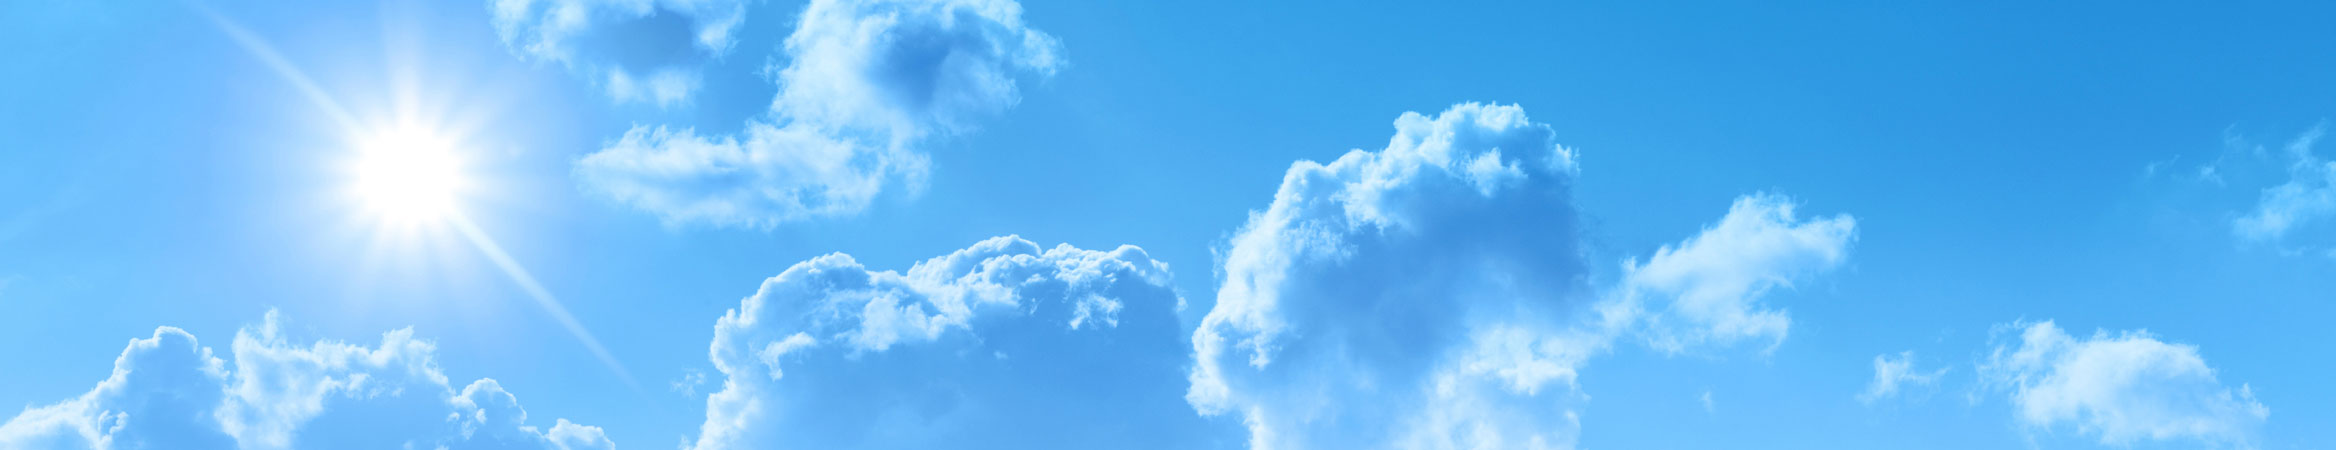
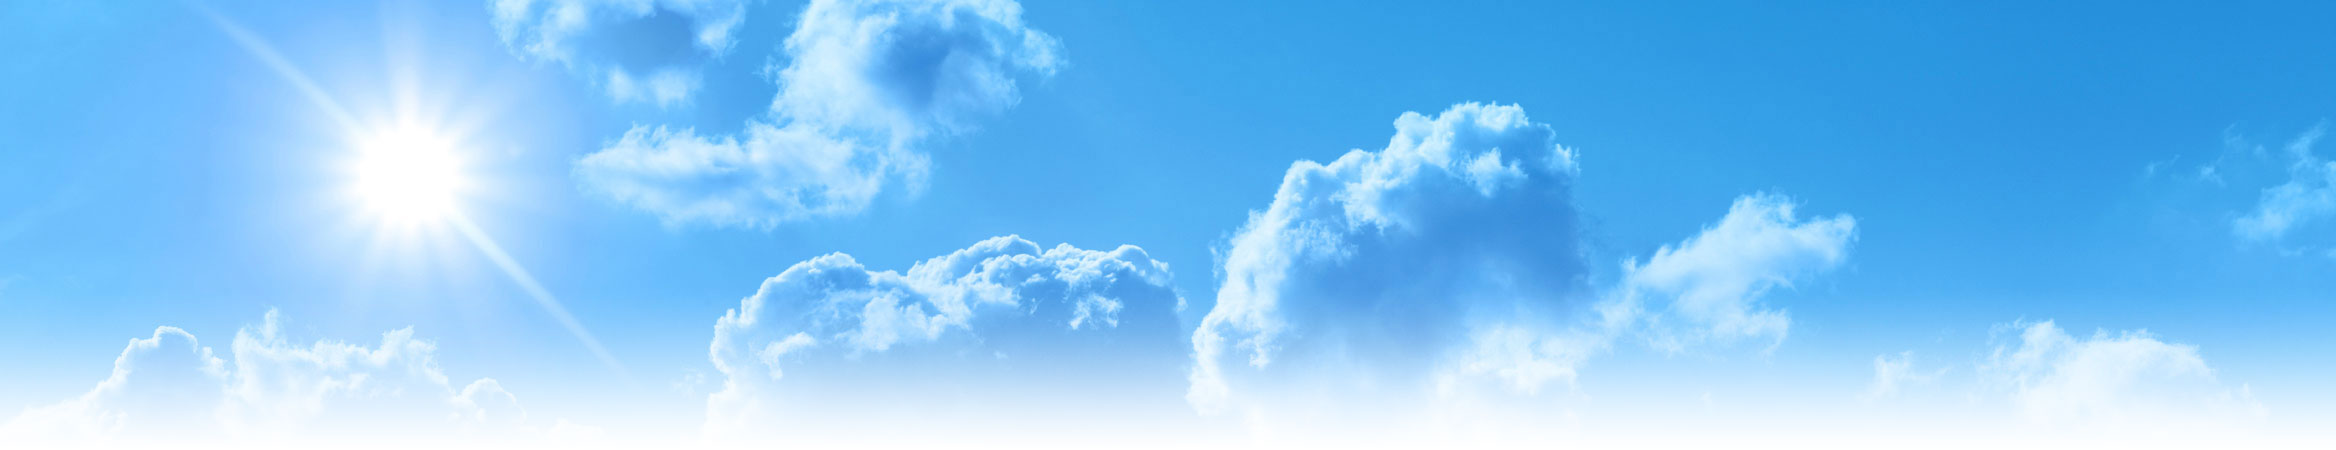
Working on some styles, adjusted page header image

Changed region(s): [[0.0, 0.6844, 1.0, 1.0]]

diff --git a/wp-content/themes/CustomParallax/style.css b/wp-content/themes/CustomParallax/style.css
@@ -16,6 +16,7 @@ CREATE CHILD THEME.
 See: http://codex.wordpress.org/Child_Themes
 */
 
+
 .navbar-fixed-top {
 	box-shadow: 0 2px 8px rgba(0, 0, 0, 0.5);
 }
@@ -310,6 +311,32 @@ sizingMethod='scale');
 	box-shadow:        inset 0 0 20px #999 !important;
 }*/
 
+.content-overlay {
+  margin-top: -200px;
+  background: #ffffff;
+  max-width:1170px;
+  margin-left: auto;
+  margin-right: auto;
+  padding: 45px;
+  border-radius: 10px;
+  box-shadow: 0 0 20px #999
+}
+.outer {
+  overflow: hidden;
+  padding: 5px 5px 5px 0;
+}
+.header-overlay {
+  background: -moz-linear-gradient(top,  rgba(255,255,255,0) 0%, rgba(255,255,255,0) 68%, rgba(255,255,255,1) 93%, rgba(255,255,255,1) 100%); /* FF3.6+ */
+background: -webkit-gradient(linear, left top, left bottom, color-stop(0%,rgba(255,255,255,0)), color-stop(68%,rgba(255,255,255,0)), color-stop(93%,rgba(255,255,255,1)), color-stop(100%,rgba(255,255,255,1))); /* Chrome,Safari4+ */
+background: -webkit-linear-gradient(top,  rgba(255,255,255,0) 0%,rgba(255,255,255,0) 68%,rgba(255,255,255,1) 93%,rgba(255,255,255,1) 100%); /* Chrome10+,Safari5.1+ */
+background: -o-linear-gradient(top,  rgba(255,255,255,0) 0%,rgba(255,255,255,0) 68%,rgba(255,255,255,1) 93%,rgba(255,255,255,1) 100%); /* Opera 11.10+ */
+background: -ms-linear-gradient(top,  rgba(255,255,255,0) 0%,rgba(255,255,255,0) 68%,rgba(255,255,255,1) 93%,rgba(255,255,255,1) 100%); /* IE10+ */
+background: linear-gradient(to bottom,  rgba(255,255,255,0) 0%,rgba(255,255,255,0) 68%,rgba(255,255,255,1) 93%,rgba(255,255,255,1) 100%); /* W3C */
+filter: progid:DXImageTransform.Microsoft.gradient( startColorstr='#00ffffff', endColorstr='#ffffff',GradientType=0 ); /* IE6-9 */
+height: 390px !important;
+width: 100%;
+z-index: 1000;
+}
 
 
 /* CUSTOMIZE THE CAROUSEL
@@ -819,6 +846,41 @@ filter: progid:DXImageTransform.Microsoft.gradient( startColorstr='#b2e1ff', end
 #header #logo .site-name a {
 	font-weight:700;
 }
+.prayer-text {
+  font-family: 'Asset', sans-serif;
+  height: auto;
+  padding-top: 130px;
+  font-size: 350px;
+  text-align: center;
+  font-weight: bold;
+  color: red;
+ -webkit-text-fill-color: transparent;
+ background: -webkit-linear-gradient(transparent, transparent),
+             url(http://www.grovestreetumc.org/assets/prayer_banner1.jpg) repeat;
+ background: -o-linear-gradient(transparent, transparent);
+ -webkit-background-clip: text;
+}
+@import url(http://fonts.googleapis.com/css?family=Asset);
+
+.masked{
+  font-family: 'Asset', sans-serif;
+  height: auto;
+  padding-top: 130px;
+  font-size: 350px;
+  text-align: center;
+  font-weight: bold;
+background: url(http://www.grovestreetumc.org/assets/prayer_banner1.jpg) repeat, white;
+-webkit-text-fill-color: transparent;
+-webkit-background-clip: text;
+/*-webkit-animation-name: masked-animation;
+-webkit-animation-duration: 40s;
+-webkit-animation-iteration-count: infinite;
+-webkit-animation-timing-function: linear;*/
+}
+@-webkit-keyframes masked-animation {
+0% {background-position: left bottom;}
+100% {background-position: right bottom;}
+}
 
 .navbar-fixed-top {
 	margin-bottom: 18px !important;
@@ -831,7 +893,19 @@ filter: progid:DXImageTransform.Microsoft.gradient( startColorstr='#b2e1ff', end
 	width:100%;
 	height:390px;
 	margin-top: -30px;
-	background-image: url("http://www.grovestreetumc.org/assets/sky-clouds-page-header.jpg");
+background-image: url("http://www.grovestreetumc.org/assets/sky-clouds-page-header.jpg");
+}
+.header-overlay {
+  background: -moz-linear-gradient(top,  rgba(255,255,255,0) 0%, rgba(255,255,255,0) 68%, rgba(255,255,255,1) 93%, rgba(255,255,255,1) 100%); /* FF3.6+ */
+background: -webkit-gradient(linear, left top, left bottom, color-stop(0%,rgba(255,255,255,0)), color-stop(68%,rgba(255,255,255,0)), color-stop(93%,rgba(255,255,255,1)), color-stop(100%,rgba(255,255,255,1))); /* Chrome,Safari4+ */
+background: -webkit-linear-gradient(top,  rgba(255,255,255,0) 0%,rgba(255,255,255,0) 68%,rgba(255,255,255,1) 93%,rgba(255,255,255,1) 100%); /* Chrome10+,Safari5.1+ */
+background: -o-linear-gradient(top,  rgba(255,255,255,0) 0%,rgba(255,255,255,0) 68%,rgba(255,255,255,1) 93%,rgba(255,255,255,1) 100%); /* Opera 11.10+ */
+background: -ms-linear-gradient(top,  rgba(255,255,255,0) 0%,rgba(255,255,255,0) 68%,rgba(255,255,255,1) 93%,rgba(255,255,255,1) 100%); /* IE10+ */
+background: linear-gradient(to bottom,  rgba(255,255,255,0) 0%,rgba(255,255,255,0) 68%,rgba(255,255,255,1) 93%,rgba(255,255,255,1) 100%); /* W3C */
+filter: progid:DXImageTransform.Microsoft.gradient( startColorstr='#00ffffff', endColorstr='#ffffff',GradientType=0 ); /* IE6-9 */
+height: 390px !important;
+width: 100%;
+z-index: 1000;
 }
 /* =Content
 -------------------------------------------------------------- */
@@ -1665,33 +1739,6 @@ strong.search-excerpt { background: yellow; }
 	margin-left: auto;
 	margin-right: auto;
 }
-  .page-header-top {
-    width: 100%;
-    margin-left: -20px;
-    margin-right: -20px;
-    padding: 0 20px;
-  }
-  .navbar-inner {
-  margin-left: 20px;
-  }
-  .verse {
-    width: 100%;
-    margin-left: -30px !important;
-    margin-right: -20px;
-    padding: 0 20px 0 30px;
-  }
-  .top-footer {
-    width: 100%;
-    margin-left: -30px !important;
-    margin-right: -20px;
-    padding: 0 20px 0 30px;
-  }
-  .sub-footer {
-    width: 100%;
-    margin-left: -30px !important;
-    margin-right: -20px;
-    padding: 0 20px 0 30px;
-  }
 
     #header #logo {
 	    float:none;
@@ -1760,33 +1807,6 @@ strong.search-excerpt { background: yellow; }
     .well-header {
 	margin-top: 80px;
 	}
-  .page-header-top {
-    width: 100%;
-    margin-left: -20px;
-    margin-right: -20px;
-    padding: 0 20px;
-  }
-  .navbar-inner {
-  margin-left: 20px;
-  }
-  .verse {
-    width: 100%;
-    margin-left: -30px !important;
-    margin-right: -20px;
-    padding: 0 20px 0 30px;
-  }
-  .top-footer {
-    width: 100%;
-    margin-left: -30px !important;
-    margin-right: -20px;
-    padding: 0 20px 0 30px;
-  }
-  .sub-footer {
-    width: 100%;
-    margin-left: -30px !important;
-    margin-right: -20px;
-    padding: 0 20px 0 30px;
-  }
 	#header .social-icons {
 	    margin-left: 25px;
     }
